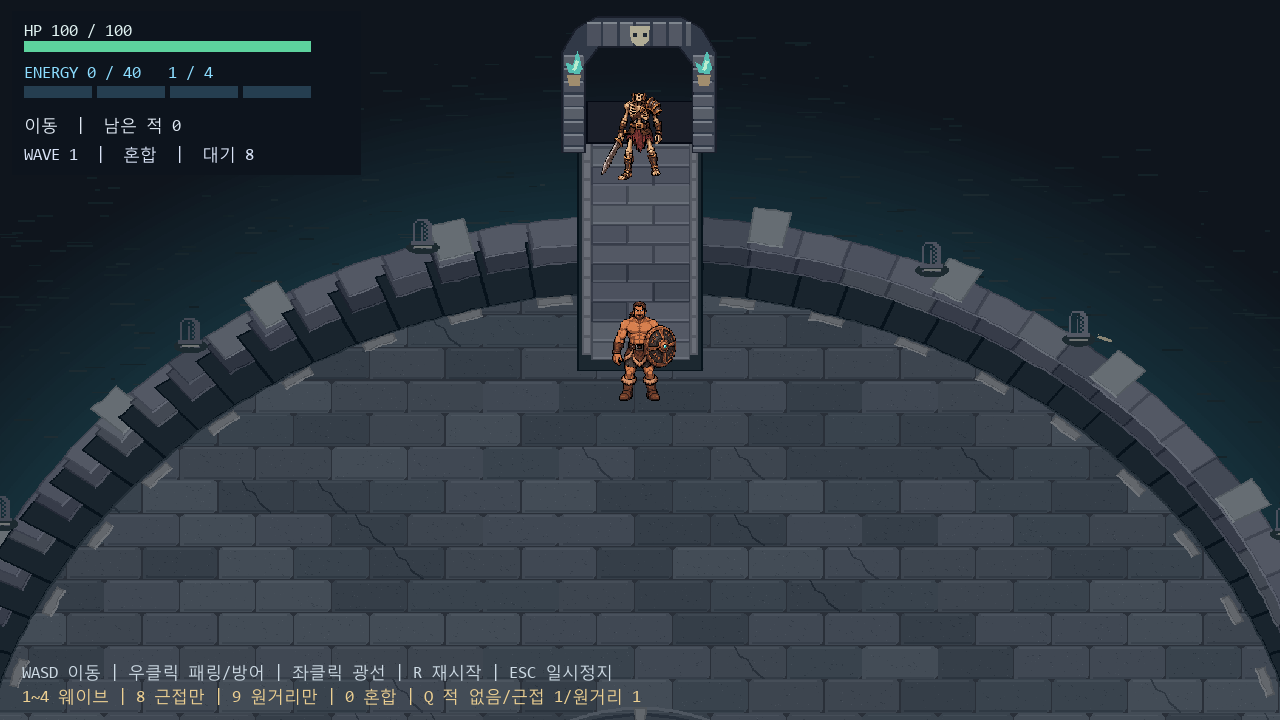
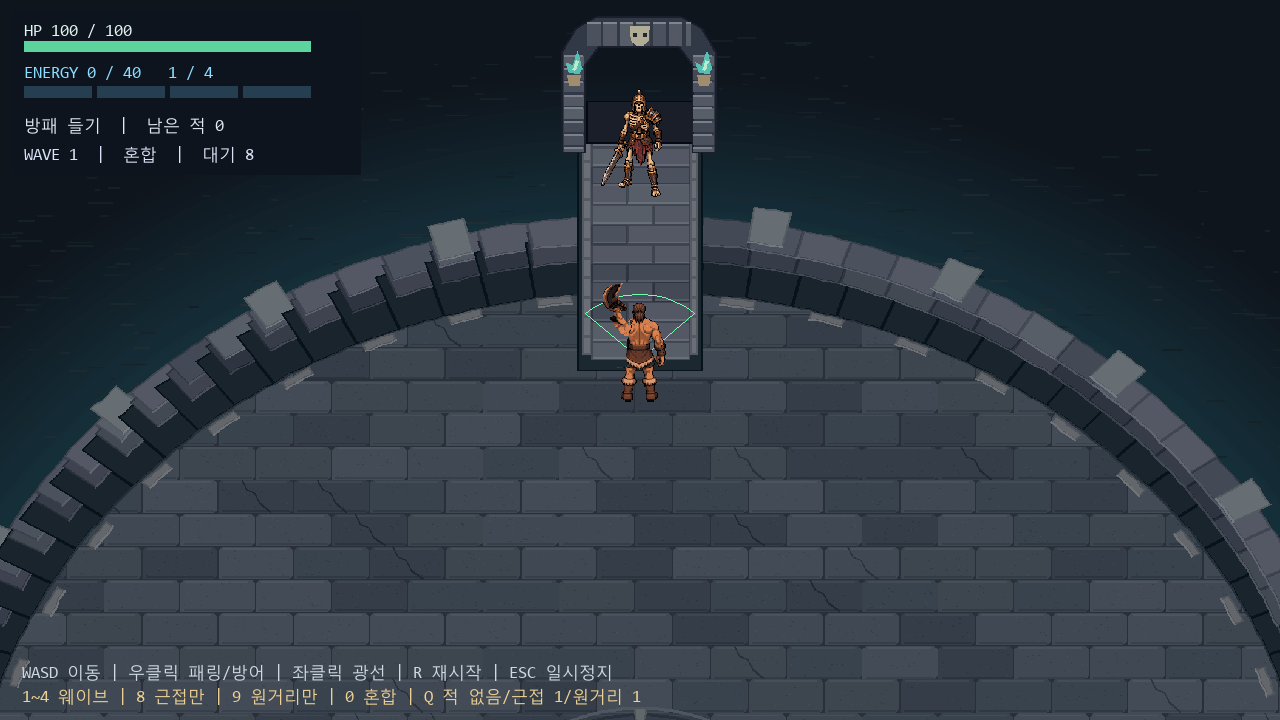
패링 판정 표시를 넓히고 시점별 판정 검증

diff --git a/tests/test_waves.py b/tests/test_waves.py
@@ -2,7 +2,7 @@
 
 import copy
 import json
-from math import pi
+from math import cos, pi, radians, sin
 import unittest
 from unittest.mock import patch
 
@@ -15,6 +15,7 @@ from enemy import MeleeEnemy
 from projectile import Projectile
 from ranged_enemy import RangedEnemy
 from combat_data import ENEMIES
+from presentation_data import VISUALS
 from wave_data import GATES, RANGED, SETTINGS
 from wave_manager import WaveManager
 from tools.generate_data import validate_waves
@@ -190,6 +191,38 @@ class WaveTests(unittest.TestCase):
 
 
 class RangedTests(unittest.TestCase):
+    def test_parry_boundaries_match_for_swords_and_bolts_under_camera_projection(self):
+        pitch = VISUALS['arena']['floor_y_ratio']
+        for floor_y_ratio, zoom in ((1.0, 1.0), (pitch, 1.0), (pitch, .417)):
+            for heading in (0, 90, 180, 270):
+                aim = radians(heading)
+                for offset, expected in ((-46, 'hit'), (-45, 'parry'), (45, 'parry'), (46, 'hit')):
+                    angle = aim + radians(offset)
+                    dx, dy = cos(angle), sin(angle)
+                    for attack in ('sword', 'bolt'):
+                        with self.subTest(pitch=floor_y_ratio, zoom=zoom, heading=heading,
+                                          offset=offset, attack=attack):
+                            player, _ = controller()
+                            camera = player.camera
+                            camera.floor_y_ratio, camera.zoom = floor_y_ratio, zoom
+                            x, y = camera.to_screen(12 * cos(aim), 12 * sin(aim))
+                            event = pico2d.Event(pico2d.SDL_MOUSEMOTION)
+                            event.x, event.y = round(x), round(camera.height_px - 1 - y)
+                            player.handle_event(event)
+                            player.combat.right_down()
+                            if attack == 'sword':
+                                enemy = MeleeEnemy(attack, ENEMIES['melee'], 2.9 * dx, 2.9 * dy, player)
+                                enemy.angle = angle + pi
+                                enemy.attack_id = attack
+                                enemy.age = enemy.data['swing_s'] / 2
+                                enemy.resolve_sword()
+                                self.assertEqual(player.combat.events[-1][1], expected)
+                            else:
+                                bolt = Projectile(attack, 3.25 * dx, 3.25 * dy, angle + pi,
+                                                  RANGED['ranged'], player)
+                                move_bullet(player, bolt, .22)
+                                self.assertEqual(bolt.result, expected)
+
     def test_approach_stop_fire_immediately_then_three_seconds(self):
         player, waves = controller()
         ranged = RangedEnemy('ranged-test', RANGED['ranged'], 16, 0, player, waves.add_projectile)

diff --git a/defense.py b/defense.py
@@ -89,6 +89,9 @@ class PlayerCombat:
             return 0.0
         return max(0.0, self.settings['parry_move_lock_s'] - (self.time - self.started))
 
+    def parry_active(self):
+        return self.state == 'raising' and self.time - self.started < self.window - 1e-9
+
     def advance(self, dt):
         self.time += dt
         if self.state == 'raising':
@@ -134,12 +137,10 @@ class PlayerCombat:
         if self.hp <= 0 or attack_id in self.resolved:
             return 'ignored'
         self.resolved.add(attack_id)
-        in_window = (self.state == 'raising'
-                     and self.time - self.started < self.window - 1e-9)
         # 일반 피격 보호 중에는 새 패링으로 축적하지 않는다.
         if self.time < self.hit_invuln_until - 1e-9:
             return 'invulnerable'
-        if in_window and self.front(source):
+        if self.parry_active() and self.front(source):
             self.energy = min(self.settings['energy_max'], self.energy + energy_gain)
             if not self.success:
                 self.success_invuln_until = self.time + self.settings['success_invuln_s']
@@ -169,11 +170,15 @@ class PlayerCombat:
         return 'hit'
 
     def draw(self):
-        if self.state == 'guard' or self.position_lock_remaining() > 1e-9:
+        raising = self.position_lock_remaining() > 1e-9
+        if self.state == 'guard' or raising:
             color = (101, 185, 248) if self.state == 'guard' else (239, 166, 76)
-            if self.state == 'raising' and self.time - self.started < self.window:
+            if self.parry_active():
                 color = (111, 255, 169)
-            radius = self.owner.height * .65 if self.walking_guard() else 1.5
+            if raising:
+                radius = self.owner.height * VISUALS['parry']['indicator_height_ratio']
+            else:
+                radius = self.owner.height * .65 if self.walking_guard() else 1.5
             draw_sector(self.owner.x, self.owner.y, self.aim, radius,
                         self.guard_arc(), self.owner.camera, color)
         if self.time < self.success_invuln_until:

diff --git a/tests/test_presentation.py b/tests/test_presentation.py
@@ -20,6 +20,36 @@ from wave_data import RANGED, SETTINGS
 
 
 class PresentationTests(TestCase):
+    def test_parry_arc_stays_visible_at_the_edge_during_the_wave_overview(self):
+        pico2d.open_canvas(640, 360)
+        try:
+            play_mode.init()
+            player = play_mode.player
+            camera = player.camera
+            camera.zoom = play_mode.waves.camera_zoom()
+            player.combat.aim = pi / 2
+            player.combat.right_down()
+            player.combat.advance(.11)
+            radius = player.height * VISUALS['parry']['indicator_height_ratio']
+            x, y = camera.to_screen(player.x, player.y + radius)
+            x, y = round(x), round(camera.height_px - 1 - y)
+
+            def arc_pixels():
+                pico2d.clear_canvas()
+                player.draw()
+                raw = read_canvas(640, 360)
+                offsets = [(row * 640 + col) * 4 for row in range(y - 2, y + 3)
+                           for col in range(x - 2, x + 3)]
+                return {raw[offset:offset + 3] for offset in offsets}
+
+            self.assertIn(bytes((111, 255, 169)), arc_pixels())
+            player.combat.advance(player.combat.window - .11)
+            self.assertIn(bytes((239, 166, 76)), arc_pixels())
+            self.assertNotIn(bytes((111, 255, 169)), arc_pixels())
+        finally:
+            play_mode.finish()
+            pico2d.close_canvas()
+
     def test_parry_snaps_up_and_recovers_without_changing_input_lock(self):
         player, enemy = actor()
         combat = player.combat

diff --git a/tools/generate_data.py b/tools/generate_data.py
@@ -76,7 +76,7 @@ def validate_presentation(data):
         'sprites': {'atlas', 'asset_dir', 'body_height_px', 'projectile_art'},
         'impact': {'sound', 'volume', 'hitstop_s', 'flash_s', 'player_flash_phase_s', 'number_s', 'rise_m',
                    'shake_s', 'shake_m', 'max_shake_m'},
-        'parry': {'push_height_ratio', 'push_s', 'raise_s', 'return_s', 'success_hold_s'},
+        'parry': {'indicator_height_ratio', 'push_height_ratio', 'push_s', 'raise_s', 'return_s', 'success_hold_s'},
         'beam': {'taper_width_ratio'},
     }
     paths = {'art', 'water', 'atlas', 'asset_dir', 'sound', 'projectile_art',

diff --git a/presentation_data.py b/presentation_data.py
@@ -93,6 +93,7 @@ VISUALS = {'arena': {'id': 'arena',
             'shake_m': 0.22,
             'max_shake_m': 0.32},
  'parry': {'id': 'parry',
+           'indicator_height_ratio': 0.8,
            'push_height_ratio': 0.34444444444444444,
            'push_s': 0.75,
            'raise_s': 0.11,
